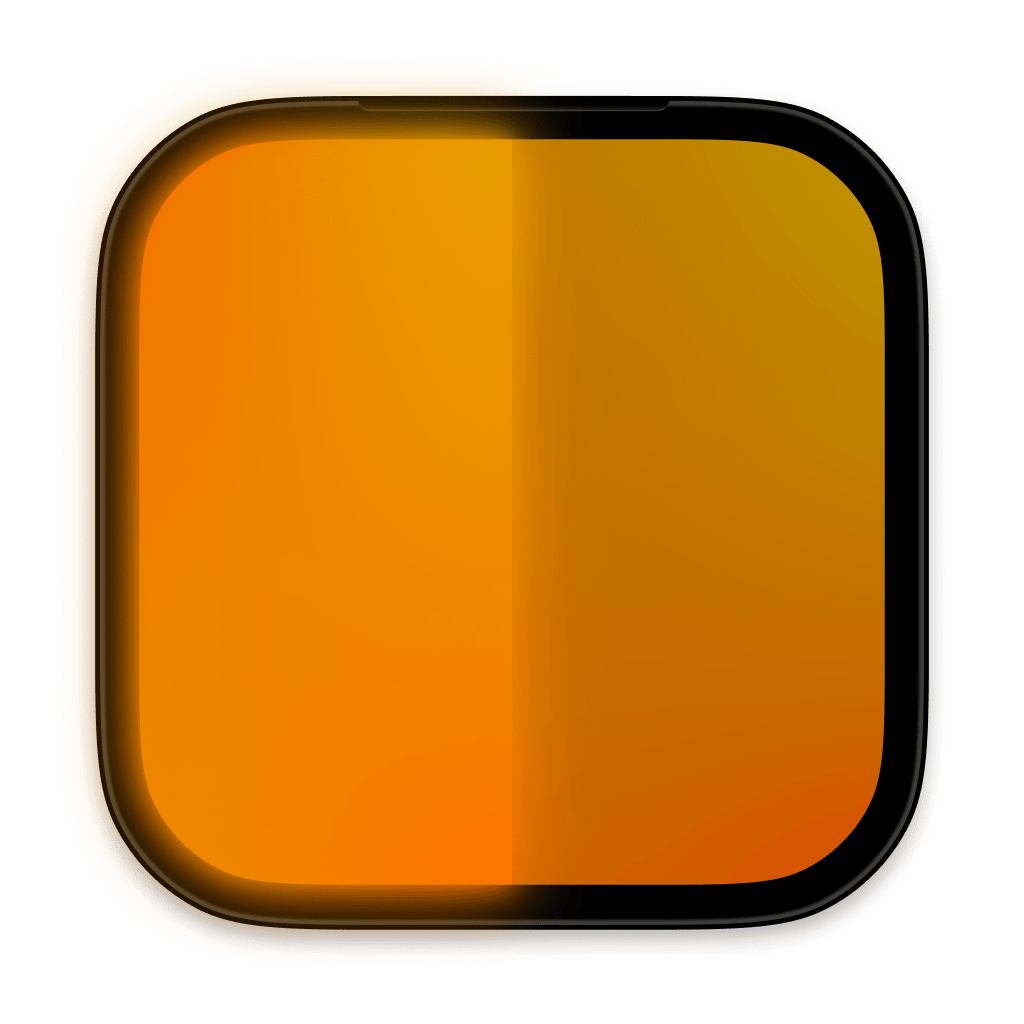
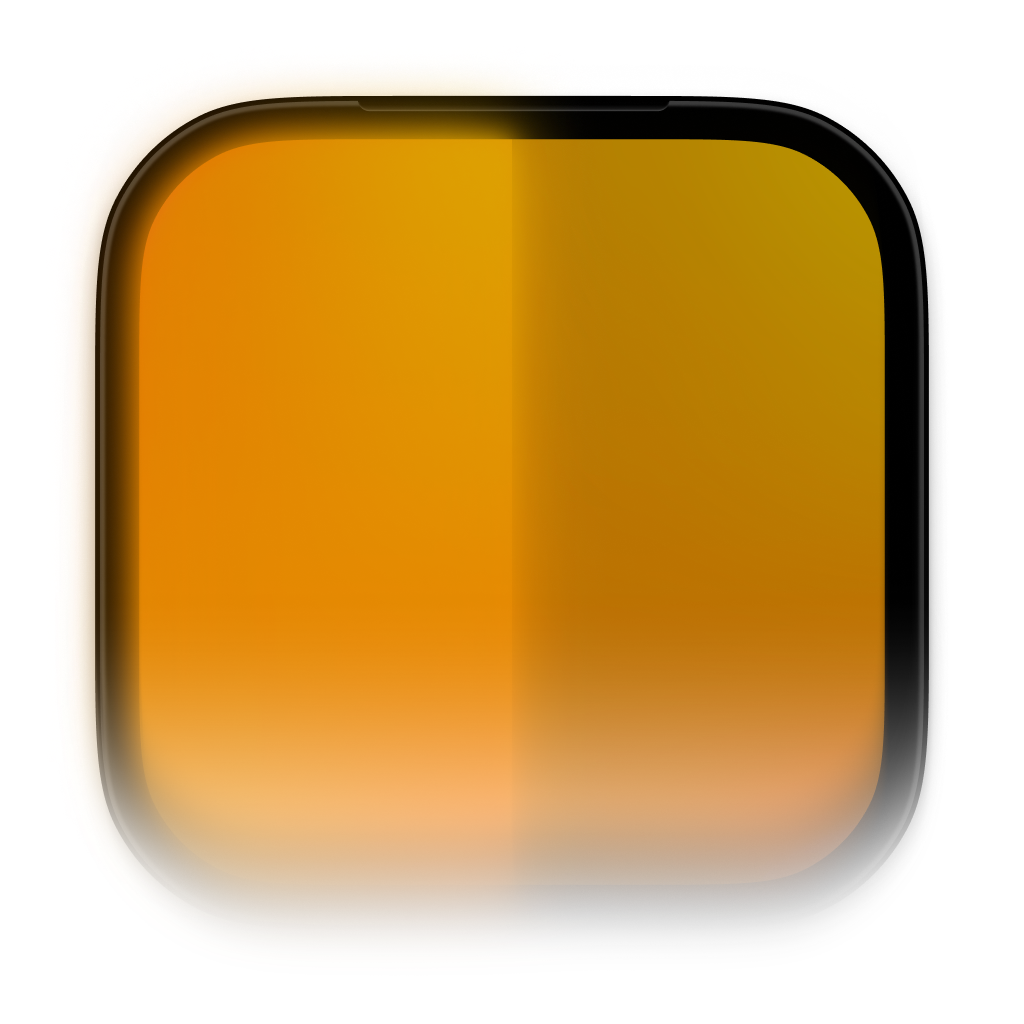
Update Example

Changed region(s): [[0.0938, 0.625, 0.9062, 0.9375]]

diff --git a/Sources/GlowGetter/SwiftUI+GlowOverlay.swift b/Sources/GlowGetter/SwiftUI+GlowOverlay.swift
@@ -50,7 +50,7 @@ public extension View {
 public struct GlowGetterExampleView: View {
     @State private var example1GlowIntensity = 0.4
     @State private var example2GlowIntensity = 0.6
-    @State private var example3GlowIntensity = 0.8
+    @State private var example3GlowIntensity = 0.0
     
     public init() {}
     
@@ -83,7 +83,7 @@ public struct GlowGetterExampleView: View {
                     }
                     .frame(height: 80)
                     
-                    Slider(value: $example1GlowIntensity, in: 0...1, step: 0.1)
+                    Slider(value: $example1GlowIntensity, in: 0...5, step: 0.1)
                         .padding(.horizontal, 15)
                 }
                 .padding(.vertical, 8)
@@ -103,7 +103,7 @@ public struct GlowGetterExampleView: View {
                     }
                     .frame(height: 80)
                     
-                    Slider(value: $example2GlowIntensity, in: 0...1, step: 0.1)
+                    Slider(value: $example2GlowIntensity, in: 0...5, step: 0.1)
                         .padding(.horizontal, 15)
                 }
                 .padding(.vertical, 8)
@@ -127,7 +127,7 @@ public struct GlowGetterExampleView: View {
                             .glow(example3GlowIntensity)
                     }
                     
-                    Slider(value: $example3GlowIntensity, in: 0...1, step: 0.1)
+                    Slider(value: $example3GlowIntensity, in: 0...5, step: 0.1)
                         .padding(.horizontal, 15)
                 }
                 .padding(.vertical, 8)
